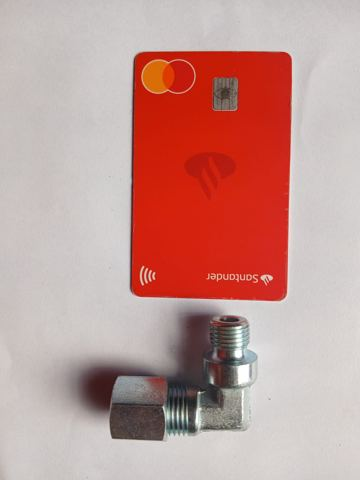
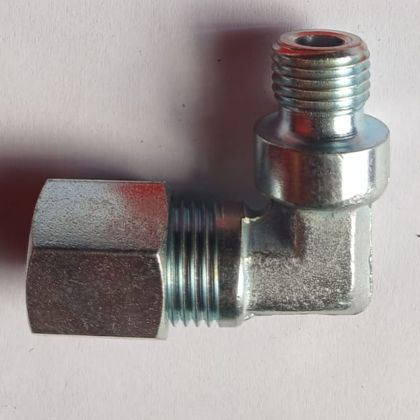
Rosca Fácil: medição só pela foto (proporção diâmetro/passo), cartão opcional
Claude-Session: https://claude.ai/code/session_01T4jrkTesf1vX6gxH7yjw8W

diff --git a/roscas/index.html b/roscas/index.html
@@ -185,7 +185,7 @@ header.top>*{position:relative;z-index:1}
 
   <!-- MODO FOTO -->
   <section class="card entra" id="modoFoto" style="animation-delay:2.9s">
-    <h2><span class="num">2</span>Foto da peça com um cartão ao lado</h2>
+    <h2><span class="num">2</span>Tire a foto da rosca</h2>
     <input type="file" id="arquivo" accept="image/*" capture="environment" hidden>
     <input type="file" id="galeria" accept="image/*" hidden>
     <label for="arquivo" class="btn" role="button" tabindex="0" id="btnFoto">
@@ -199,21 +199,21 @@ header.top>*{position:relative;z-index:1}
     <details id="dicasBox">
       <summary>Como tirar a foto certa</summary>
       <div class="dicas">
-        <img src="exemplo.jpg" alt="Exemplo: cartão de banco deitado ao lado da conexão, foto tirada de cima">
+        <img src="exemplo.jpg" alt="Exemplo: conexão fotografada de perto, com a rosca de lado e os filetes nítidos">
         <ul>
-          <li>Coloque um <b>cartão de banco</b> (ou uma régua) ao lado da peça.</li>
-          <li>Tire a foto <b>de cima</b>, com o celular reto.</li>
+          <li>Tire a foto <b>de perto</b>, com a rosca ocupando boa parte da tela.</li>
           <li>Deixe a rosca <b>de lado</b>, mostrando os filetes.</li>
-          <li>Cartão inteiro na foto, sem cortar.</li>
+          <li>Espere ficar <b>nítido</b>: os filetes precisam aparecer bem.</li>
           <li>Lugar claro, sem tremer.</li>
+          <li>Tem um cartão ou régua por perto? Coloque ao lado: a medida fica ainda mais certa. Mas não é obrigatório.</li>
         </ul>
       </div>
     </details>
     <div class="foto" id="preview" hidden><img alt="Foto enviada"><div class="scan"><div class="grade"></div><div class="laser"></div><span class="canto c1"></span><span class="canto c2"></span><span class="canto c3"></span><span class="canto c4"></span></div></div>
     <div class="carregando" id="carregando" hidden><ul class="etapas" id="etapas">
-      <li><span class="ck"></span>Achando o cartão de referência</li>
-      <li><span class="ck"></span>Medindo o diâmetro da rosca</li>
+      <li><span class="ck"></span>Achando a rosca na foto</li>
       <li><span class="ck"></span>Contando os filetes</li>
+      <li><span class="ck"></span>Medindo a proporção da rosca</li>
       <li><span class="ck"></span>Comparando com as tabelas BSP e NPT</li>
     </ul></div>
     <div id="msgFoto"></div>
@@ -337,11 +337,10 @@ function receberFoto() {
     }).then(function (d) {
       if (!d.ok) { aviso("#msgFoto", "erro", esc(d.erro || "Não foi possível medir.")); return; }
       var m = d.medida || {};
-      if (m.rosca_visivel === false || !(Number(m.diametro_mm) > 0)) {
-        aviso("#msgFoto", "erro", "Não consegui ver a rosca direito. " + esc(m.problemas || "Tente outra foto seguindo as dicas.")); $("#dicasBox").open = true; return;
-      }
-      if (m.referencia === "nenhuma") {
-        aviso("#msgFoto", "erro", "Não achei o cartão ou a régua na foto. Sem ele não dá para saber o tamanho real da rosca. Fotos tiradas da internet normalmente não têm essa referência: coloque um cartão ao lado da peça e tire uma foto nova, ou use a aba <b>Já tenho a medida</b>."); $("#dicasBox").open = true; return;
+      m.razao = Number(m.razao_diametro_passo) || (m.diametro_px && m.passo_px ? m.diametro_px / m.passo_px : 0);
+      m.tem_referencia = !!m.tem_referencia && Number(m.diametro_mm) > 0;
+      if (m.rosca_visivel === false || !(m.razao > 0 || m.tem_referencia)) {
+        aviso("#msgFoto", "erro", "Não consegui ver os filetes direito. " + esc(m.problemas || "Tente outra foto, mais de perto e de lado.")); $("#dicasBox").open = true; return;
       }
       if (m.tipo === "macho" || m.tipo === "femea") marcarTipo(m.tipo);
       estado.medida = m; estado.formaUsuario = ""; estado.respondeu = false; estado.origem = "foto";
@@ -404,7 +403,7 @@ $("#formManual").onsubmit = function (e) {
   var v = num($("#mDiam").value), fios = num($("#mFios").value);
   if (!(v > 0)) return;
   var mm = $("#mUnid").value === "pol" ? v * 25.4 : v;
-  estado.medida = { diametro_mm: mm, fios_por_polegada: fios > 0 ? fios : null, passo_mm: fios > 0 ? 25.4 / fios : null, forma: "indefinida" };
+  estado.medida = { diametro_mm: mm, tem_referencia: true, fios_por_polegada: fios > 0 ? fios : null, passo_mm: fios > 0 ? 25.4 / fios : null, forma: "indefinida" };
   estado.formaUsuario = ""; estado.respondeu = false; estado.origem = "manual";
   mostrar();
 };
@@ -418,7 +417,7 @@ function aviso(alvo, tipo, html) { $(alvo).innerHTML = '<div class="aviso ' + ti
 
 function mostrar() {
   var m = estado.medida, forma = estado.formaUsuario;
-  var lista = Roscas.comparar({ diametro_mm: m.diametro_mm, fios_por_polegada: m.fios_por_polegada, forma: forma }, estado.tipo);
+  var lista = Roscas.comparar({ diametro_mm: m.diametro_mm, tem_referencia: m.tem_referencia, fios_por_polegada: m.fios_por_polegada, razao: m.razao, diametro_estimado_mm: m.diametro_estimado_mm, forma: forma }, estado.tipo);
   var r = Roscas.resumir(lista);
   var box = $("#resultado");
   if (!r) { box.hidden = true; return; }
@@ -431,10 +430,13 @@ function mostrar() {
 
   var conf = r.confianca;
   if (estado.origem === "foto" && Number(m.certeza) < 50 && conf === "alta") conf = "média";
-  var confTxt = { alta: "Medida bem próxima da tabela", "média": "Medida razoável, vale conferir", baixa: "Medida longe da tabela, confira" }[conf];
+  var confTxt = r.semReferencia
+    ? { "média": "Confira o tamanho com a peça na mão", baixa: "Foto difícil, confira com a peça" }[conf] || "Confira com a peça na mão"
+    : { alta: "Medida bem próxima da tabela", "média": "Medida razoável, vale conferir", baixa: "Medida longe da tabela, confira" }[conf];
 
-  var h = '<div class="res-topo"><div class="rot">Rosca encontrada</div>' +
+  var h = '<div class="res-topo"><div class="rot">' + (r.semReferencia ? "Rosca provável" : "Rosca encontrada") + '</div>' +
     '<div class="bitola">' + polB(r.melhor.bitola) + '</div><div class="norma">' + titulo + '</div>' +
+    (r.semReferencia ? '<div style="color:var(--mute);font-size:14px;margin-top:4px">mais ou menos ' + fmt(r.melhor.diametro, 0) + ' mm de diâmetro</div>' : "") +
     '<span class="selo ' + conf + '">' + confTxt + '</span><div class="barra"><i class="' + conf + '"></i></div></div>';
 
   // pergunta reta ou cônica (resolve BSP reta x cônica)
@@ -451,7 +453,10 @@ function mostrar() {
   }
 
   h += "<h3>Medida " + (estado.origem === "foto" ? "na foto" : "informada") + "</h3><table>" +
-    "<tr><th>Diâmetro</th><td><span class=\"conta\" data-v=\"" + m.diametro_mm + "\">" + fmt(m.diametro_mm, 1) + "</span> mm · " + Roscas.pol(m.diametro_mm) + "</td></tr>" +
+    (m.tem_referencia
+      ? "<tr><th>Diâmetro</th><td><span class=\"conta\" data-v=\"" + m.diametro_mm + "\">" + fmt(m.diametro_mm, 1) + "</span> mm · " + Roscas.pol(m.diametro_mm) + "</td></tr>"
+      : "<tr><th>Filetes no diâmetro</th><td><span class=\"conta\" data-v=\"" + m.razao + "\">" + fmt(m.razao, 1) + "</span> <small style=\"font-weight:500;color:var(--mute)\">(diâmetro ÷ passo)</small></td></tr>" +
+        (m.diametro_estimado_mm ? "<tr><th>Tamanho no olho</th><td>≈ " + fmt(m.diametro_estimado_mm, 0) + " mm</td></tr>" : "")) +
     (m.fios_por_polegada ? "<tr><th>Fios por polegada</th><td>" + fmt(m.fios_por_polegada, 1).replace(",0", "") + "</td></tr>" : "") +
     (m.passo_mm ? "<tr><th>Passo</th><td>" + fmt(m.passo_mm, 2) + " mm</td></tr>" : "") +
     "</table>";
@@ -465,12 +470,12 @@ function mostrar() {
   });
 
   if (r.outras.length) {
-    h += '<h3>Se não bater, pode ser</h3><div class="chips">' + r.outras.map(function (o) { return "<span>" + polB(o.bitola) + "</span>"; }).join("") + "</div>";
+    h += '<h3>Se não bater, pode ser</h3><div class="chips">' + r.outras.map(function (o) { return "<span>" + polB(o.bitola) + " <small style=\"font-weight:500;color:var(--mute)\">≈ " + fmt(o.diametro, 0) + " mm</small></span>"; }).join("") + "</div>";
   }
   if (estado.origem === "foto" && m.problemas) h += '<div class="aviso atencao">' + esc(m.problemas) + "</div>";
 
   var zap = "Rosca encontrada pelo " + (NOME ? "medidor da " + NOME : "Rosca Fácil") + ": " + r.melhor.bitola + "\" " + titulo +
-    " (medida: " + fmt(m.diametro_mm, 1) + " mm / " + Roscas.pol(m.diametro_mm) + ")";
+    (m.tem_referencia ? " (medida: " + fmt(m.diametro_mm, 1) + " mm / " + Roscas.pol(m.diametro_mm) + ")" : " (cerca de " + fmt(r.melhor.diametro, 0) + " mm de diâmetro)");
   h += '<div class="linha"><button type="button" class="btn sec" id="btnNovo">Medir outra</button>' +
     '<a class="btn zap" target="_blank" rel="noopener" href="https://wa.me/?text=' + encodeURIComponent(zap) + '">Enviar pelo WhatsApp</a></div>';
 

diff --git a/roscas/tabelas.js b/roscas/tabelas.js
@@ -40,21 +40,39 @@
     return out;
   }
 
-  /* medida: {diametro_mm, fios_por_polegada, forma: reta|conica|indefinida}
+  /* medida: {diametro_mm, fios_por_polegada, razao, diametro_estimado_mm, tem_referencia, forma}
+     - Com referência (cartão/régua): compara o diâmetro em mm (preciso).
+     - Sem referência (só a foto): compara a RAZÃO diâmetro ÷ passo, que não muda
+       com a distância da foto, e usa o tamanho estimado só para desempatar.
      Retorna lista ordenada do mais provável ao menos provável. */
   function comparar(medida, tipo) {
     var d = Number(medida.diametro_mm);
-    if (!(d > 0)) return [];
+    var razao = Number(medida.razao) || 0;
+    var est = Number(medida.diametro_estimado_mm) || 0;
+    var comRef = d > 0 && medida.tem_referencia !== false;
+    if (!comRef && !(razao > 0)) {
+      if (est > 0) { d = est; comRef = true; } else return [];
+    }
     var tpi = Number(medida.fios_por_polegada) || 0;
     var forma = medida.forma === "reta" || medida.forma === "conica" ? medida.forma : "";
     var lista = linhas(tipo).filter(function (l) { return !forma || l.forma === forma; });
     lista.forEach(function (l) {
-      var erroD = Math.abs(d - l.diametro) / l.diametro;          // erro relativo do diâmetro
-      var erroT = tpi ? Math.abs(tpi - l.tpi) / l.tpi : 0;         // erro relativo dos fios
-      l.erro_mm = +Math.abs(d - l.diametro).toFixed(2);
-      l.pontos = erroD + 0.35 * erroT;
+      var refRazao = l.nominal / (25.4 / l.tpi);
+      if (comRef) {
+        var erroD = Math.abs(d - l.diametro) / l.diametro;          // erro relativo do diâmetro
+        var erroT = tpi ? Math.abs(tpi - l.tpi) / l.tpi : 0;         // erro relativo dos fios
+        var erroR = razao ? Math.abs(razao - refRazao) / refRazao : 0;
+        l.erro_mm = +Math.abs(d - l.diametro).toFixed(2);
+        l.pontos = erroD + 0.35 * erroT + 0.2 * erroR;
+      } else {
+        var eR = Math.abs(razao - refRazao) / refRazao;
+        var eE = est > 0 ? Math.abs(Math.log(est / l.diametro)) : 0;  // tamanho "no olho"
+        l.pontos = eR + 0.12 * eE;
+      }
+      l.razao = +refRazao.toFixed(1);
     });
     lista.sort(function (a, b) { return a.pontos - b.pontos; });
+    lista.semReferencia = !comRef;
     return lista;
   }
 
@@ -72,7 +90,11 @@
       vistos[l.bitola] = 1; outras.push(l);
     });
     var conf = m.pontos < 0.03 ? "alta" : m.pontos < 0.08 ? "média" : "baixa";
-    return { melhor: m, empate: empate, outras: outras, confianca: conf };
+    if (lista.semReferencia) {
+      // sem referência: no máximo "média", e cai se outra bitola ficou perto
+      conf = m.pontos > 0.12 ? "baixa" : "média";
+    }
+    return { melhor: m, empate: empate, outras: outras, confianca: conf, semReferencia: !!lista.semReferencia };
   }
 
   function pol(mm) { return (mm / 25.4).toFixed(3).replace(".", ",") + "\""; }

diff --git a/roscas/sw.js b/roscas/sw.js
@@ -1,5 +1,5 @@
 // Rosca Fácil by DayIA · guarda as telas para abrir mais rápido (a medição sempre usa a internet)
-var CACHE = "rosca-facil-v3";
+var CACHE = "rosca-facil-v4";
 var ARQ = ["./", "index.html", "tabelas.js", "config.js", "dayia-simbolo.png", "dayia-logo.png", "exemplo.jpg", "manifest.webmanifest"];
 self.addEventListener("install", function (e) { e.waitUntil(caches.open(CACHE).then(function (c) { return c.addAll(ARQ); })); self.skipWaiting(); });
 self.addEventListener("activate", function (e) {
